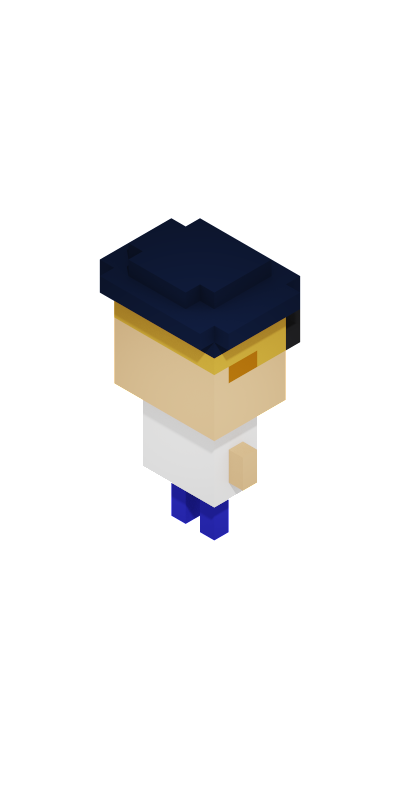
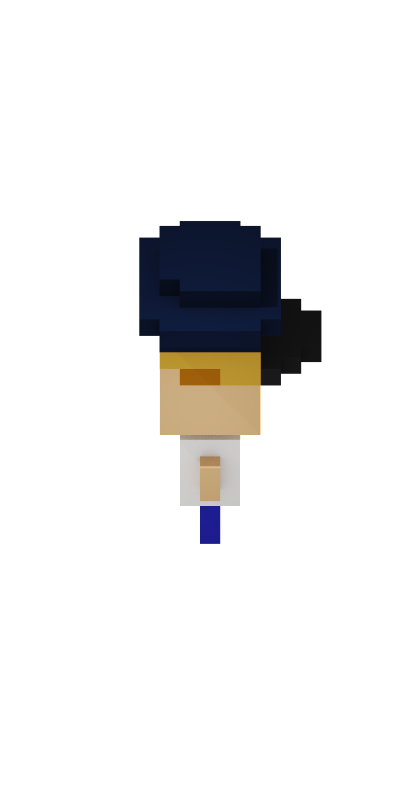
Add smooth movement

Changed region(s): [[0.24, 0.25, 0.81, 0.6875], [0.42, 0.25, 0.48, 0.2812], [0.42, 0.3438, 0.45, 0.375]]

diff --git a/pilot.js b/pilot.js
@@ -3,30 +3,72 @@ function Pilot(game, coords) {
     this.game = game
 
     this.sprites = []
-    for (var i = 0; i < 4; i++) this.sprites.push(createSprite(game, coords[0], coords[1], 'pilot' + i))
+    for (var i = 0; i < 8; i++) this.sprites.push(createSprite(game, coords[0], coords[1], 'pilot' + i))
     this.sprites.forEach(s => { s.setScale(s.scaleX / 1.5); s.visible = false })
     this.sprites[0].visible = true
-    this.dir = 0 // SW, NW, NE, SE
 
-    this.move = function (dir) {
-        if (this.dir == dir){
-            if (this.dir == 0) this.coords[0] += 1
-            if (this.dir == 1) this.coords[1] -= 1
-            if (this.dir == 2) this.coords[0] -= 1
-            if (this.dir == 3) this.coords[1] += 1
+    const speed = 0.05;
+    this.dir = [false, false, false, false]; //UP DOWN RIGHT LEFT
+
+    this.move = function(){
+        if(this.dir == [false, false, false, false].toString()) return;
+
+        var orientation;
+
+        if(this.dir == [true, false, false, false].toString()){ // N
+            orientation = 0
+            this.coords[0] -= speed;
+            this.coords[1] -= speed;
         }
-
-        this.dir = dir
+        else if(this.dir == [true, false, true, false].toString()){ // NE
+            orientation = 1
+            this.coords[0] -= speed;
+        }
+        else if(this.dir == [false, false, true, false].toString()){ // E
+            orientation = 2
+            this.coords[0] -= speed;
+            this.coords[1] += speed;
+        }
+        else if(this.dir == [false, true, true, false].toString()){ // SE
+            orientation = 3
+            this.coords[1] += speed;
+        }
+        else if(this.dir == [false, true, false, false].toString()){ // S
+            orientation = 4
+            this.coords[0] += speed;
+            this.coords[1] += speed;
+        }
+        else if(this.dir == [false, true, false, true].toString()){ // SW
+            orientation = 5
+            this.coords[0] += speed;
+        }
+        else if(this.dir == [false, false, false, true].toString()){ // W
+            orientation = 6
+            this.coords[0] += speed;
+            this.coords[1] -= speed;
+        }
+        else if(this.dir == [true, false, false, true].toString()){ // NW
+            orientation = 7
+            this.coords[1] -= speed;
+        }
+        
+        this.dir = [false, false, false, false]
         this.coords = this.coords.map(c => Math.min(Math.max(c, 0), this.game.levelSize - 1))
-        this.updateSprites()
+
+        this.sprites.forEach((s, index) => {
+            s.visible = index == orientation
+            var worldCoords = getScreenCoords(this.game, this.coords[0], this.coords[1])
+            s.x = worldCoords[0]
+            s.y = worldCoords[1]
+        })
     }
 
-    this.updateSprites = function () {  // dit zou niet moeten met een eigen renderer :(
+    /*this.updateSprites = function () {  // dit zou niet moeten met een eigen renderer :(
         this.sprites.forEach((s, index) => {
             s.visible = index == this.dir
             var worldCoords = getScreenCoords(this.game, this.coords[0], this.coords[1])
             s.x = worldCoords[0]
             s.y = worldCoords[1]
         })
-    }
+    }*/
 }

diff --git a/main.js b/main.js
@@ -19,21 +19,21 @@ var config = {
 var game = new Phaser.Game(config);
 
 var assets;
-function preload () {
+function preload() {
     this.load.image('G0', 'assets/tiles/grass0.png');
     this.load.image('G1', 'assets/tiles/grass1.png');
     this.load.image('W1', 'assets/tiles/water1.png');
     assets = {
-        'G': ['G0','G1'],
+        'G': ['G0', 'G1'],
         "W": ['W1']
     };
-    for (var i = 0; i < 4; i++) this.load.image('pilot' + i, 'assets/entities/pilot' + i + '.png')
+    for (var i = 0; i < 8; i++) this.load.image('pilot' + i, 'assets/entities/pilot' + i + '.png')
 }
 
 function getScreenCoords(game, levelX, levelY) {
     var scale = sizeY / game.levelSize / shiftY / 2.8
-    var posX = sizeX/2 + 1.02*scale*shiftX*(levelY-levelX)
-    var posY = sizeY/2 + 1.02*scale*shiftY*(levelY+levelX-game.levelSize)
+    var posX = sizeX / 2 + 1.02 * scale * shiftX * (levelY - levelX)
+    var posY = sizeY / 2 + 1.02 * scale * shiftY * (levelY + levelX - game.levelSize)
     return [posX, posY, scale] // sneakily add scale as well
 }
 
@@ -58,29 +58,23 @@ function createLevel(game, tiles) {
 }
 
 function randomTiles(size) {
-    return Array.from(Array(size)).map(()=>Array.from(Array(size)).map(()=>Phaser.Utils.Array.GetRandom(['W','G'])))
+    return Array.from(Array(size)).map(() => Array.from(Array(size)).map(() => Phaser.Utils.Array.GetRandom(['W', 'G'])))
 }
 
-function create () {
+function create() {
     this.cameras.main.backgroundColor = Phaser.Display.Color.HexStringToColor("#D0EEFF");
+    this.cursors = this.input.keyboard.createCursorKeys();
     this.levelSize = 5 // todo level design fixen zodra we effectief mechanics hebben
     //createLevel(this, [['G','G','W'],['G','W','W'],['G','G','W']]);
     this.currentWorld = createLevel(this, randomTiles(this.levelSize));
-    this.currentPilot = new Pilot(this, [3, 3]);
-
-    var game = this;
-    this.input.keyboard.addKey(Phaser.Input.Keyboard.KeyCodes.LEFT).on('down',function(){processMovement(game)});
-    this.input.keyboard.addKey(Phaser.Input.Keyboard.KeyCodes.RIGHT).on('down',function(){processMovement(game)});
-    this.input.keyboard.addKey(Phaser.Input.Keyboard.KeyCodes.DOWN).on('down',function(){processMovement(game)});
-    this.input.keyboard.addKey(Phaser.Input.Keyboard.KeyCodes.UP).on('down',function(){processMovement(game)});
+    this.pilot = new Pilot(this, [3, 3]);
 }
 
-function update () {
-}
+function update() {
+    if (this.cursors.up.isDown) this.pilot.dir[0] = true;
+    else if (this.cursors.down.isDown) this.pilot.dir[1] = true;
+    if (this.cursors.right.isDown) this.pilot.dir[2] = true;
+    else if (this.cursors.left.isDown) this.pilot.dir[3] = true;
 
-function processMovement(game) {
-    if (event.key == 'ArrowDown') game.currentPilot.move(0)
-    if (event.key == 'ArrowLeft') game.currentPilot.move(1)
-    if (event.key == 'ArrowUp') game.currentPilot.move(2)
-    if (event.key == 'ArrowRight') game.currentPilot.move(3)
+    this.pilot.move();
 }
